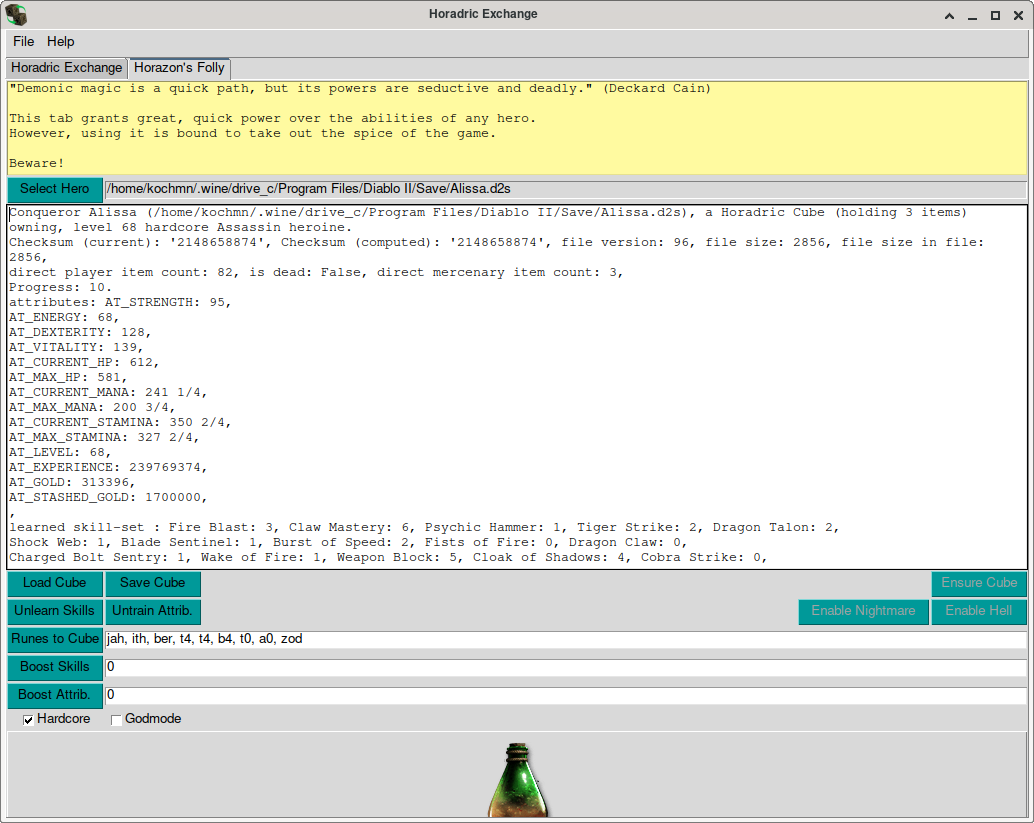
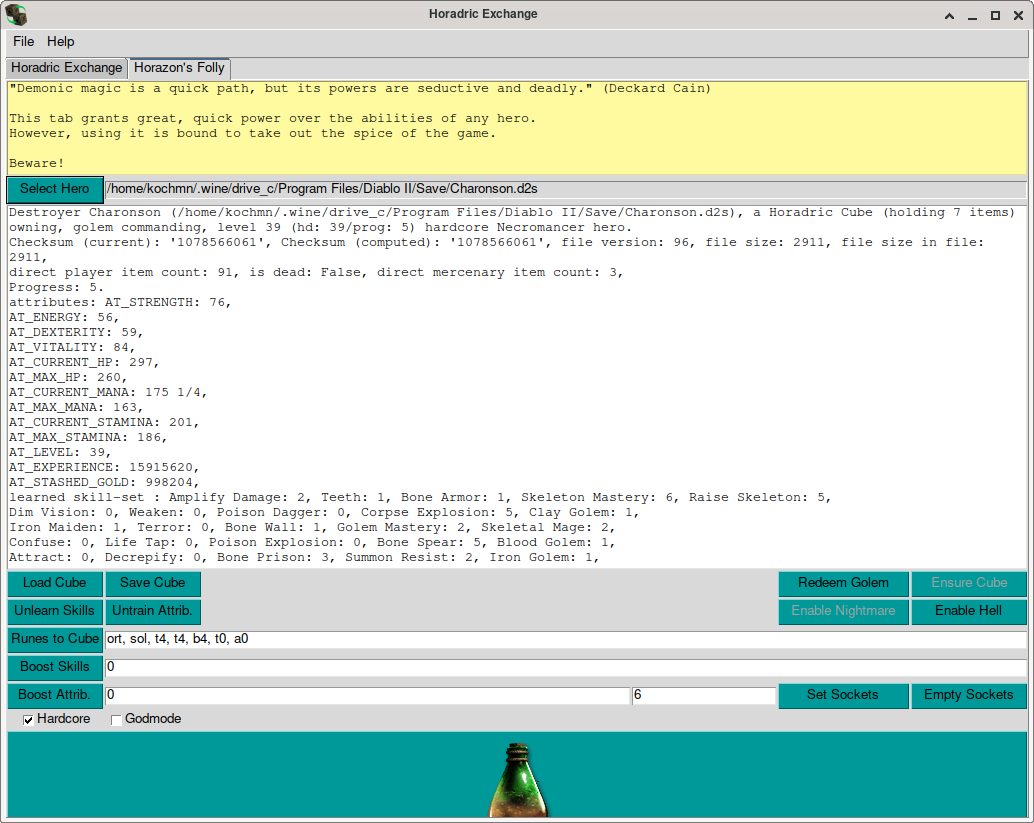
feat(doc): Small updates to wiki. Also GUI-layout-improvement.

diff --git a/wiki/wiki_text_horadric.html b/wiki/wiki_text_horadric.html
@@ -43,7 +43,8 @@ modifications of target bit sites in <code>horazons_folly.py</code> to generaliz
 to other save-game versions.
 </p><p>
 While there are, in the more clandestine Horazon's section, facilities that will
-provide a Horadric cube and even create any rune or gem you could wish for, creation
+provide a Horadric cube and create any rune or gem you could wish for, or
+even edit the numbers of sockets in appropriate normal or superior items, creation
 powers do not extend beyond that.
 So after creating that set of 'Jah Ith Ber' runes, you will still have to find a
 suitable armor to go with them yourself.
@@ -170,15 +171,15 @@ Note however, that, as stated above, all is promised to hold true to v1.10-v1.14
 <h3>Health, Mana, and Stamina Attributes</h3>
 <p>
 It is true, that these attributes are encoded in 21 bits. However, they are regular in being
-  encoded forward. Their being hard to decipher stems from the fact, that they encode
-  a rudimentary floating point schema: The most significant (little endian!) 8 bits
-  encode "64" for "1/4", "128" for "2/4", and "192" for "3/4". The powers that be
-  at Blizzard North, in their infinite wisdom, decided, that balancing of some
-  characters like the Amazon, or, most notably, the Assassin requires quarter points.
-  See, e.g., <a href="https://diablo.fandom.com/wiki/Assassin#Attributes">here, at diablo.fandom</a>.
+encoded forward. Their being hard to decipher stems from the fact, that they encode
+a rudimentary floating point schema: The most significant (little endian!) 8 bits
+encode "64" for "1/4", "128" for "2/4", and "192" for "3/4". The powers that be
+at Blizzard North, in their infinite wisdom, decided, that balancing of some
+characters like the Amazon, or, most notably, the Assassin requires quarter points.
+See, e.g., <a href="https://diablo.fandom.com/wiki/Assassin#Attributes">here, at diablo.fandom</a>.
 </p><p>
-  Only the least 13 bit encode the actual integer values. I guess, this will probably
-  set the absolute Maxima of Mana, Life and Stamina to <b>8192.75</b> each.
+Only the least 13 bit encode the actual integer values. I guess, this will probably
+set the absolute Maxima of Mana, Life and Stamina to <b>8192.75</b> each.
 </p><p>
 </p>Here is an example taken using the debugging function <code>--info_stats</code> from
 <b>horazons_folly.py</b>.
@@ -190,7 +191,7 @@ ID: 000001000 (ID 8) (AT_CURRENT_MANA)<br />
 </p>
 
 <p>
-  I can also not confirm that any of the other values are bit-inverted.
+I can also not confirm that any of the other values are bit-inverted.
 </p><p>
 The variable length of the attributes section seems to stem from the fact
 that values that are 0 are not listed, but missing. It appears that 0 values

diff --git a/src/horadric_exchange.py b/src/horadric_exchange.py
@@ -722,19 +722,19 @@ Beware!"""
         Hovertip(self.button_reset_attributes, 'Return all hard attribute points for redistribution.')
 
         self.button_redeem_golem = tk.Button(self.tab2, text='Redeem Golem', command=self.redeem_golem, width=15, height=1, bg='#009999')
-        self.button_redeem_golem.grid(row=3, column=2, sticky='w')
+        self.button_redeem_golem.grid(row=3, column=3, sticky='w')
         Hovertip(self.button_redeem_golem, 'If your character commands an iron golem, dispel that golem and, if there is space, return the item to inventory.')
 
         self.button_ensure_cube = tk.Button(self.tab2, text='Ensure Cube', command=self.ensure_cube, width=10, height=1, bg='#009999')
-        self.button_ensure_cube.grid(row=3, column=3, sticky='w')
+        self.button_ensure_cube.grid(row=3, column=4, sticky='ew')
         Hovertip(self.button_ensure_cube, 'If your character has no Horadric Cube. Get one into your inventory. Supplanted items will be moved into the cube.')
 
         self.button_enable_nightmare = tk.Button(self.tab2, text='Enable Nightmare', command=self.enable_nightmare, width=15, height=1, bg='#009999')
-        self.button_enable_nightmare.grid(row=4, column=2, sticky='w')
+        self.button_enable_nightmare.grid(row=4, column=3, sticky='w')
         Hovertip(self.button_enable_nightmare, 'If still in normal mode. Raise your character level to 38 (if necessary) and fill his stash with gold.')
 
         self.button_enable_hell = tk.Button(self.tab2, text='Enable Hell', command=self.enable_hell, width=10, height=1, bg='#009999')
-        self.button_enable_hell.grid(row=4, column=3, sticky='w')
+        self.button_enable_hell.grid(row=4, column=4, sticky='ew')
         Hovertip(self.button_enable_hell, 'If still in normal or nightmare mode. Raise your character level to 68 (if necessary) and fill his stash with gold.')
 
         var_runic_cube = tk.StringVar()

diff --git a/README.md b/README.md
@@ -47,8 +47,8 @@ usage: horazons_folly.py [-h] [--omit_backup] [--pfname_backup PFNAME_BACKUP]
                          [--load_horadric LOAD_HORADRIC]
                          [--empty_sockets_horadric]
                          [--set_sockets_horadric SET_SOCKETS_HORADRIC]
-                         [--ensure_horadric] [--hardcore] [--softcore]
-                         [--redeem_golem]
+                         [--toggle_ethereal] [--ensure_horadric] [--hardcore]
+                         [--softcore] [--redeem_golem]
                          [--boost_attributes BOOST_ATTRIBUTES]
                          [--boost_skills BOOST_SKILLS] [--reset_attributes]
                          [--reset_skills] [--enable_nightmare] [--enable_hell]
@@ -82,6 +82,7 @@ options:
                         Flag. Pull all socketed items from items in the horadric cube. Try to preserve these socketables.
   --set_sockets_horadric SET_SOCKETS_HORADRIC
                         Attempt to set this many sockets to the socket-able items in the horadric cube.
+  --toggle_ethereal     Flag. For each item within the Horadric Cube toggle the ethereal state.
   --ensure_horadric     Flag. If the player has no Horadric Cube, one will be created in the inventory. Any item in that location will be put into the cube instead.
   --hardcore            Flag. Set target characters to hard core mode.
   --softcore            Flag. Set target characters to soft core mode.
